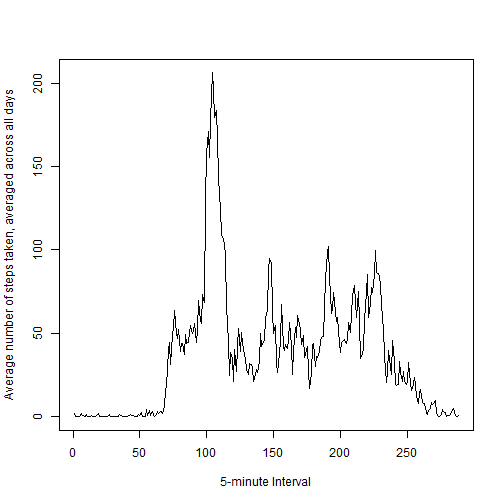
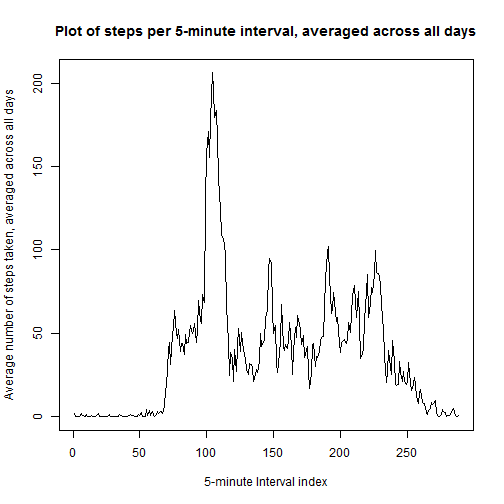
Fixed plots
Edited plot code

Changed region(s): [[0.0893, 0.0298, 0.9524, 0.0893], [0.3869, 0.9226, 0.6548, 0.9821]]

diff --git a/PA1_template.html b/PA1_template.html
@@ -192,8 +192,7 @@ hr {
 <h2>Loading and preprocessing the data</h2>
 
 <p>We will first read the activity *.csv file into R.
-The date column is set to the Date class in R, to be able 
-to use date functions to process the data.</p>
+The date column is set to the Date class in R. This enables the use of date functions to process the data.</p>
 
 <pre><code class="r"> activity &lt;- read.csv(&quot;activity.csv&quot;)
  activity$date &lt;- as.Date(activity$date)
@@ -201,7 +200,9 @@ to use date functions to process the data.</p>
 
 <h2>What is mean total number of steps taken per day?</h2>
 
-<p>We first create a vector of the days that are part of the dataset.</p>
+<p>We first create a vector of the days that are part of the dataset. Using the &ldquo;day&rdquo; option in the seq() function creates a list of unique days in the date set. </p>
+
+<p>(The &ldquo;day&rdquo; parameter makes the sequence list each day only once while reading the <code>activity$date</code> column.)</p>
 
 <pre><code class="r"> daysequence &lt;- seq(activity$date[1], activity$date[length(activity$date)],&quot;day&quot;)
 
@@ -223,7 +224,9 @@ to use date functions to process the data.</p>
 ## [61] &quot;2012-11-30&quot;
 </code></pre>
 
-<p>The &ldquo;day&rdquo; parameter makes the sequence list each day only once while reading the <code>activity$date</code> column.</p>
+<p>A numeric vector with length equal to the number of unique days is created to hold the total steps per day.</p>
+
+<p>The <code>for</code> loop then adds up all step for each day in the sequence.</p>
 
 <pre><code class="r"> totalStepsPerDay &lt;- numeric(length(daysequence))
 for(i in 1:length(daysequence)){
@@ -236,10 +239,13 @@ for(i in 1:length(daysequence)){
  }
 </code></pre>
 
-<pre><code class="r"> hist(totalStepsPerDay)
+<pre><code class="r"> Plotlabs &lt;- seq(min(daysequence), max(daysequence), by=&quot;day&quot;)
+Plotlabs.pos &lt;- round(seq(1, length(daysequence), length.out=length(daysequence)))
+mp &lt;- barplot(totalStepsPerDay, xaxt=&quot;n&quot;, main=&quot;Plot of Total Steps Per Day in the dataset&quot;, xlab=&quot;Date&quot;, ylab=&quot;Number Of steps&quot;)
+axis(1, at=mp, labels=Plotlabs)
 </code></pre>
 
[2 lines of base64/hex data omitted]
 
 <pre><code class="r"> mean(totalStepsPerDay)
 </code></pre>
@@ -284,10 +290,10 @@ for(j in 1:length(intervalsequence)){
 </code></pre>
 
 <pre><code class="r"> plot(1:length(mean_steps_interval), mean_steps_interval, 
-      type=&quot;l&quot;, xlab=&quot;5-minute Interval&quot;, ylab=&quot;Average number of steps taken, averaged across all days&quot;)
+      type=&quot;l&quot;, main=&quot;Plot of steps per 5-minute interval, averaged across all days&quot;, xlab=&quot;5-minute Interval index&quot;, ylab=&quot;Average number of steps taken, averaged across all days&quot;)
 </code></pre>
 
[2 lines of base64/hex data omitted]
 
 <pre><code class="r"> summary(mean_steps_interval)
 </code></pre>
@@ -421,10 +427,13 @@ for(i in 1:length(daysequence)){
  }
 </code></pre>
 
-<pre><code class="r"> hist(totalStepsPerDayIMP)
+<pre><code class="r"> Plotlabs &lt;- seq(min(daysequence), max(daysequence), by=&quot;day&quot;)
+Plotlabs.pos &lt;- round(seq(1, length(daysequence), length.out=length(daysequence)))
+mp &lt;- barplot(totalStepsPerDayIMP, xaxt=&quot;n&quot;, main=&quot;Plot of Total Steps Per Day in the dataset, with Imputed values&quot;, xlab=&quot;Date&quot;, ylab=&quot;Number Of steps&quot;)
+axis(1, at=mp, labels=Plotlabs)
 </code></pre>
 
[2 lines of base64/hex data omitted]
 
 <pre><code class="r"> mean(totalStepsPerDayIMP)
 </code></pre>
@@ -462,15 +471,8 @@ for(i in 1:length(daysequence)){
 </code></pre>
 
 <pre><code class="r"> require(lattice)
-</code></pre>
 
-<pre><code>## Loading required package: lattice
-</code></pre>
-
-<pre><code>## Warning: package &#39;lattice&#39; was built under R version 3.1.1
-</code></pre>
-
-<pre><code class="r"> p &lt;- xyplot(steps ~ interval | dayfactor, data = activity.DF, type = &quot;l&quot;, layout=c(1,2,1))
+ p &lt;- xyplot(steps ~ interval | dayfactor, data = activity.DF, type = &quot;l&quot;, layout=c(1,2,1))
  print(p)
 </code></pre>
 

diff --git a/PA1_template.md b/PA1_template.md
@@ -5,8 +5,7 @@
 
 
 We will first read the activity *.csv file into R.
-The date column is set to the Date class in R, to be able 
-to use date functions to process the data.
+The date column is set to the Date class in R. This enables the use of date functions to process the data.
 
 
 ```r
@@ -15,11 +14,11 @@ to use date functions to process the data.
 ```
 
 
-
-
 ## What is mean total number of steps taken per day?
 
-We first create a vector of the days that are part of the dataset.
+We first create a vector of the days that are part of the dataset. Using the "day" option in the seq() function creates a list of unique days in the date set. 
+
+(The "day" parameter makes the sequence list each day only once while reading the ``` activity$date ``` column.)
 
 
 ```r
@@ -44,7 +43,10 @@ We first create a vector of the days that are part of the dataset.
 ## [61] "2012-11-30"
 ```
 
-The "day" parameter makes the sequence list each day only once while reading the ``` activity$date ``` column.
+A numeric vector with length equal to the number of unique days is created to hold the total steps per day.
+
+The ```for``` loop then adds up all step for each day in the sequence.
+
 
 
 ```r
@@ -60,8 +62,13 @@ for(i in 1:length(daysequence)){
 ```
 
 
+
+
 ```r
- hist(totalStepsPerDay)
+ Plotlabs <- seq(min(daysequence), max(daysequence), by="day")
+Plotlabs.pos <- round(seq(1, length(daysequence), length.out=length(daysequence)))
+mp <- barplot(totalStepsPerDay, xaxt="n", main="Plot of Total Steps Per Day in the dataset", xlab="Date", ylab="Number Of steps")
+axis(1, at=mp, labels=Plotlabs)
 ```
 
 ![plot of chunk unnamed-chunk-4](figure/unnamed-chunk-4.png) 
@@ -122,7 +129,7 @@ for(j in 1:length(intervalsequence)){
 
 ```r
  plot(1:length(mean_steps_interval), mean_steps_interval, 
-      type="l", xlab="5-minute Interval", ylab="Average number of steps taken, averaged across all days")
+      type="l", main="Plot of steps per 5-minute interval, averaged across all days", xlab="5-minute Interval index", ylab="Average number of steps taken, averaged across all days")
 ```
 
 ![plot of chunk unnamed-chunk-8](figure/unnamed-chunk-8.png) 
@@ -282,7 +289,10 @@ for(i in 1:length(daysequence)){
 
 
 ```r
- hist(totalStepsPerDayIMP)
+ Plotlabs <- seq(min(daysequence), max(daysequence), by="day")
+Plotlabs.pos <- round(seq(1, length(daysequence), length.out=length(daysequence)))
+mp <- barplot(totalStepsPerDayIMP, xaxt="n", main="Plot of Total Steps Per Day in the dataset, with Imputed values", xlab="Date", ylab="Number Of steps")
+axis(1, at=mp, labels=Plotlabs)
 ```
 
 ![plot of chunk unnamed-chunk-12](figure/unnamed-chunk-12.png) 
@@ -337,17 +347,7 @@ for(i in 1:length(daysequence)){
 
 ```r
  require(lattice)
-```
 
-```
-## Loading required package: lattice
-```
-
-```
-## Warning: package 'lattice' was built under R version 3.1.1
-```
-
-```r
  p <- xyplot(steps ~ interval | dayfactor, data = activity.DF, type = "l", layout=c(1,2,1))
  print(p)
 ```
